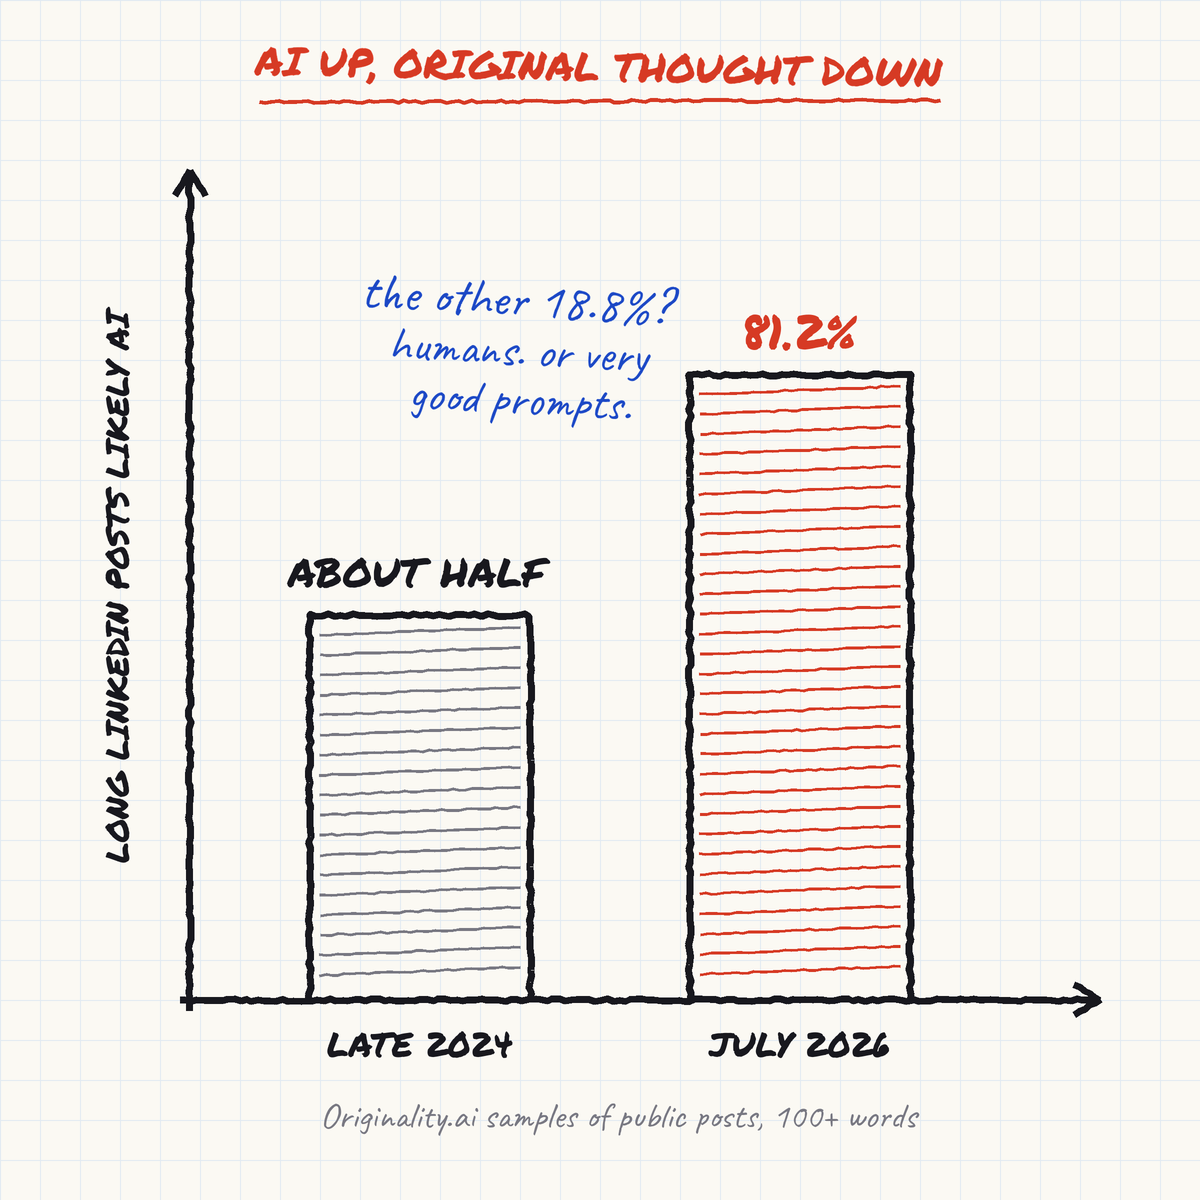
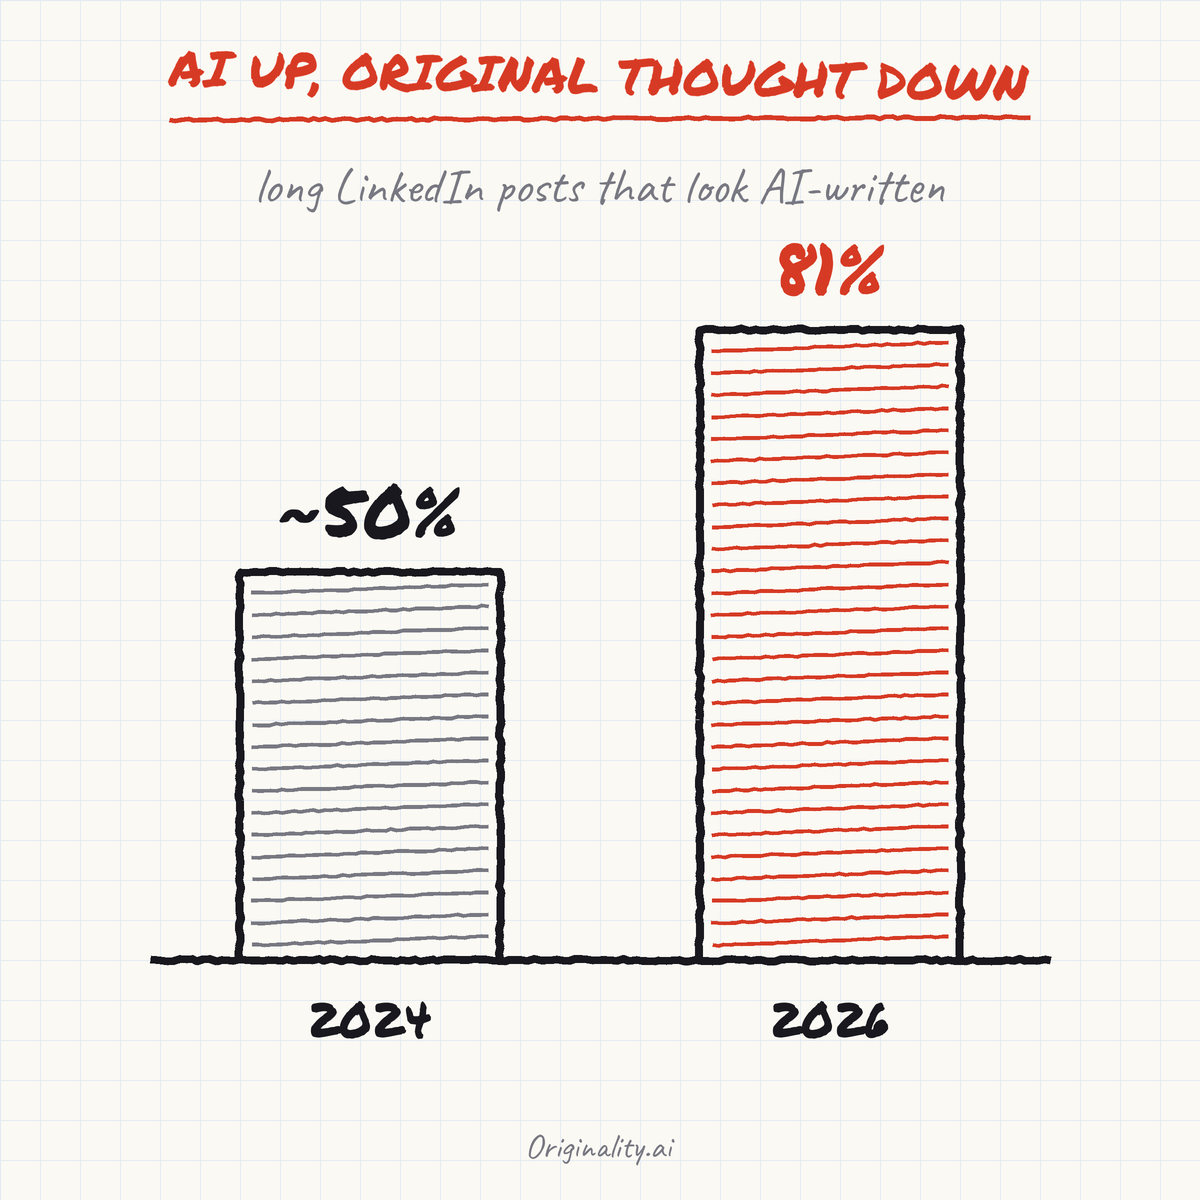
AI up, ___ down: simpler charts, one contrast each
Claude-Session: https://claude.ai/code/session_015eiBRGpC2hMXjiGLbSaNCy

diff --git a/tools/ai_series.py b/tools/ai_series.py
@@ -1,4 +1,5 @@
-"""Charts for the 'AI up, ___ down' series. Usage: python3 tools/ai_series.py [name ...]"""
+"""'AI up, ___ down' series charts, simple versions: one contrast, one punchline each.
+Usage: python3 tools/ai_series.py [name ...]"""
 import math, os, random, sys
 sys.path.insert(0, os.path.dirname(os.path.abspath(__file__)))
 from sketch import Sketch, INK, BLUE, RED
@@ -12,223 +13,181 @@ def save(s, name):
     s.save(os.path.join(OUT, name + ".png"))
 
 
-def stamp(s, text):
-    s.text((600, 70), text, "mark", 40, RED, -1)
-    s.line([(260, 102), (940, 100)], RED, 4, 1.2)
+def title(s, text):
+    s.text((600, 80), text, "mark", 50, RED, -1)
+    s.line([(170, 120), (1030, 117)], RED, 5, 1.2)
 
 
-def bars(s, xs, vals, vmax, labels, base=1000, top=220, w=150, fills=None, vlabels=None, lsize=44):
-    for i, (x, v) in enumerate(zip(xs, vals)):
-        h = (base - top) * v / vmax
-        y = base - h
-        s.line([(x - w / 2, base), (x - w / 2, y), (x + w / 2, y), (x + w / 2, base)], w=7, amp=1.2)
-        fill = (fills or [GREY] * len(xs))[i]
-        for yy in range(int(y) + 20, base - 6, 20):
-            s.line([(x - w / 2 + 10, yy), (x + w / 2 - 10, yy - 8)], fill, 3, 0.8)
-        s.text((x, base + 45), labels[i], "mark", 32)
-        if vlabels:
-            s.text((x, y - 38), vlabels[i], "mark", lsize, fill if fill != GREY else INK)
+def source(s, text):
+    s.text((600, 1150), text, size=34, fill=GREY)
+
+
+def bar(s, x, top, w=260, base=960, fill=GREY):
+    s.line([(x - w / 2, base), (x - w / 2, top), (x + w / 2, top), (x + w / 2, base)], w=8, amp=1.2)
+    for yy in range(int(top) + 22, base - 6, 22):
+        s.line([(x - w / 2 + 12, yy), (x + w / 2 - 12, yy - 9)], fill, 4, 0.8)
+
+
+def baseline(s, base=960):
+    s.line([(150, base), (1050, base)], w=8)
+
+
+def two_bars(s, left, right, base=960, tall=300):
+    """left/right = (label, value_text, height_fraction, colour)."""
+    baseline(s, base)
+    for x, (lab, val, frac, col) in [(370, left), (830, right)]:
+        top = base - (base - tall) * frac
+        bar(s, x, top, base=base, fill=col)
+        s.text((x, top - 60), val, "mark", 72, col if col != GREY else INK)
+        s.text((x, base + 60), lab, "mark", 48)
+
+
+def arrow_big(s, x, y0, y1, col, w=16):
+    s.line([(x, y0), (x, y1)], col, w, 1.0)
+    d = 1 if y1 > y0 else -1
+    s.line([(x - 60, y1 - d * 60), (x, y1), (x + 60, y1 - d * 60)], col, w, 1.0)
 
 
 def stack_overflow():
     s = Sketch(seed=1)
-    stamp(s, "AI UP, STACK OVERFLOW DOWN")
-    s.axes("NEW QUESTIONS PER YEAR", "", top=170, ysize=40)
-    bars(s, [330, 550, 770, 990], [1336, 789, 399, 109], 1400, ["2022", "2023", "2024", "2025"],
-         top=230, vlabels=["1.34M", "789K", "399K", "109K"])
-    s.text((690, 300), "ChatGPT launches", size=48, fill=BLUE, angle=-3)
-    s.text((690, 350), "Nov 30, 2022", size=48, fill=BLUE, angle=-3)
-    s.arrow([(540, 320), (470, 300), (418, 290)])
-    s.text((900, 500), "all of 2025 =", "mark", 34, RED, -3)
-    s.text((900, 550), "less than 2 months", size=46, fill=RED, angle=-3)
-    s.text((900, 595), "of 2016", size=46, fill=RED, angle=-3)
-    s.arrow([(1010, 625), (1030, 760), (1010, 880)], RED)
+    title(s, "AI UP, STACK OVERFLOW DOWN")
+    s.text((600, 190), "new questions asked in a year", size=52, fill=GREY)
+    two_bars(s, ("2022", "1.34M", 1.0, GREY), ("2025", "109K", 0.08, RED), tall=350)
+    s.text((830, 620), "-92%", "mark", 110, RED, -5)
+    source(s, "Stack Exchange Data Explorer")
     save(s, "01-stack-overflow")
 
 
 def google_ctr():
     s = Sketch(seed=2)
-    stamp(s, "AI UP, GOOGLE CLICKS DOWN")
-    s.axes("POSITION #1 CLICK-THROUGH RATE", "", top=170, ysize=34)
-    def y(v): return 1000 - v / 8.5 * 780
-    x0, x1 = 340, 900
-    s.line([(x0, y(7.6)), (x1, y(3.9))], INK, 8, 1.0)
-    s.line([(x0, y(7.3)), (x1, y(1.6))], RED, 9, 1.0)
-    for x, v in [(x0, 7.6), (x1, 3.9)]:
-        s.dot(x, y(v), 13)
-    for x, v in [(x0, 7.3), (x1, 1.6)]:
-        s.dot(x, y(v), 13, RED)
-    s.text((x0, 1045), "DEC 2023", "mark", 34); s.text((x1, 1045), "DEC 2025", "mark", 34)
-    s.text((x0 - 10, y(7.6) - 55), "7.6% / 7.3%", "mark", 38)
-    s.text((x1 + 95, y(3.9) - 10), "3.9%", "mark", 40)
-    s.text((x1 + 95, y(1.6) + 5), "1.6%", "mark", 44, RED)
-    s.text((720, 360), "keywords with no AI Overview", size=42, fill=INK, angle=0)
-    s.text((520, 760), "keywords WITH an AI Overview", size=44, fill=RED, angle=0)
-    s.text((690, 1110), "Ahrefs: 58% lower clicks with an AI Overview", size=40, fill=BLUE)
+    title(s, "AI UP, GOOGLE CLICKS DOWN")
+    s.text((600, 190), "clicks on the #1 result", size=52, fill=GREY)
+    s.text((600, 245), "when an AI Overview shows up", size=52, fill=GREY)
+    two_bars(s, ("2023", "7.3%", 1.0, GREY), ("2025", "1.6%", 0.22, RED), tall=400)
+    source(s, "Ahrefs, 150,000 keywords")
     save(s, "02-google-ctr")
 
 
 def glue():
     s = Sketch(seed=3)
-    stamp(s, "AI UP, COMMON SENSE DOWN")
-    x0, y0, x1, y1 = 230, 190, 970, 1060
+    title(s, "AI UP, COMMON SENSE DOWN")
+    x0, y0, x1, y1 = 220, 190, 980, 1060
     s.line([(x0, y0), (x1, y0 + 6), (x1 - 4, y1), (x0 + 4, y1 - 4), (x0, y0)], INK, 7, 1.4)
-    s.text((600, 270), "PIZZA", "mark", 70)
-    s.text((600, 345), "(according to AI, May 2024)", size=44, fill=GREY)
-    items = ["dough", "tomato sauce", "mozzarella", "non-toxic glue", "(so the cheese sticks)"]
-    ys = [460, 560, 660, 760, 818]
-    for i, (t, yy) in enumerate(zip(items, ys)):
-        if i < 4:
-            s.line([(300, yy), (318, yy + 18), (350, yy - 22)], BLUE if i < 3 else RED, 6, 0.8)
-        s.text((560 if i < 4 else 600, yy), t, size=60 if i < 4 else 42, fill=RED if i >= 3 else INK)
-    s.circle(560, 790, 230, 78)
-    s.text((600, 920), "side: one small rock a day", size=46, fill=INK)
-    s.text((600, 990), "sources: a forum joke + satire", size=40, fill=BLUE)
-    s.text((600, 1130), "both confirmed real by Google", size=40, fill=GREY)
+    s.text((600, 290), "PIZZA", "mark", 90)
+    s.text((600, 375), "(recipe by Google's AI, 2024)", size=46, fill=GREY)
+    for t, yy in [("dough", 500), ("tomato sauce", 610), ("cheese", 720)]:
+        s.line([(310, yy), (330, yy + 20), (365, yy - 24)], BLUE, 7, 0.8)
+        s.text((600, yy), t, size=70)
+    s.line([(310, 860), (330, 880), (365, 836)], RED, 7, 0.8)
+    s.text((600, 860), "glue", "mark", 96, RED)
+    s.circle(600, 860, 170, 85)
+    s.text((600, 975), "(so the cheese sticks)", size=50, fill=RED)
+    source(s, "confirmed real by Google, May 2024")
     save(s, "03-glue-on-pizza")
 
 
 def reddit():
     s = Sketch(seed=4)
-    stamp(s, "AI UP, REDDIT VISITS DOWN")
-    s.axes("REDDIT VISITS", "2023                                   2026", top=170, ysize=44)
-    pts, x = [], 215
-    while x <= 1080:
-        if x < 520:   yv = 820 - 380 * ((x - 215) / 305) ** 1.2
-        elif x < 760: yv = 440 + random.uniform(-25, 25)
-        else:         yv = 440 + 200 * ((x - 760) / 320) ** 1.1
-        pts.append((x, yv + random.uniform(-6, 6))); x += 16
-    s.line(pts, w=10, amp=1.0)
-    s.text((420, 300), "ACT 1:", "mark", 36, BLUE)
-    s.text((420, 350), "Google loves Reddit", size=50, fill=BLUE)
-    s.text((420, 405), "+39% (May 23 to May 24)", size=40, fill=BLUE)
-    s.text((900, 760), "ACT 2:", "mark", 36, RED)
-    s.text((900, 810), "Google summarizes", size=48, fill=RED)
-    s.text((900, 860), "Reddit instead", size=48, fill=RED)
-    s.text((900, 915), "-13% (Oct 25 to Oct 26)", size=40, fill=RED)
-    s.text((640, 1140), "(shape not to scale. percentages: Similarweb)", size=36, fill=GREY)
+    title(s, "AI UP, REDDIT VISITS DOWN")
+    arrow_big(s, 370, 820, 360, BLUE)
+    s.text((370, 290), "+39%", "mark", 100, BLUE)
+    s.text((370, 900), "Google sends", size=56, fill=BLUE)
+    s.text((370, 960), "you to Reddit", size=56, fill=BLUE)
+    s.text((370, 1030), "2023-24", "mark", 40, GREY)
+    arrow_big(s, 830, 360, 820, RED)
+    s.text((830, 290), "-13%", "mark", 100, RED)
+    s.text((830, 900), "Google answers", size=56, fill=RED)
+    s.text((830, 960), "for Reddit", size=56, fill=RED)
+    s.text((830, 1030), "2025-26", "mark", 40, GREY)
+    source(s, "Similarweb visit estimates")
     save(s, "04-reddit")
 
 
 def please():
     s = Sketch(seed=5)
-    stamp(s, "AI UP, MANNERS... EXPENSIVE")
-    s.axes("COST", "", top=170, ysize=48)
-    base = 1000
-    x, w = 420, 200
-    s.line([(x - w / 2, base), (x - w / 2, 760), (x + w / 2, 760), (x + w / 2, base)], w=7)
-    for yy in range(780, base - 6, 20):
-        s.line([(x - w / 2 + 10, yy), (x + w / 2 - 10, yy - 8)], BLUE, 3, 0.8)
-    s.text((x, 700), "tens of millions", size=50, fill=BLUE)
-    s.text((x, 1050), "saying please", size=42)
-    s.text((x, 1095), "and thank you", size=42)
-    x2 = 800
-    s.line([(x2 - w / 2, base), (x2 - w / 2, 120)], w=7, amp=1.2)
-    s.line([(x2 + w / 2, base), (x2 + w / 2, 120)], w=7, amp=1.2)
-    for yy in range(140, base - 6, 20):
-        s.line([(x2 - w / 2 + 10, yy), (x2 + w / 2 - 10, yy - 8)], RED, 3, 0.8)
-    s.text((x2, 1050), "being rude when", size=42)
-    s.text((x2, 1095), "the robots take over", size=42)
-    s.text((1010, 420), "???", "mark", 64, RED, -8)
-    s.text((430, 520), "per Sam Altman:", size=40, fill=GREY)
-    s.text((430, 565), "“well spent... you never know”", size=40, fill=GREY)
+    title(s, "AI UP, MANNERS... EXPENSIVE")
+    base = 960
+    baseline(s, base)
+    bar(s, 370, 720, base=base, fill=BLUE)
+    s.text((370, 640), "$10M+", "mark", 72, BLUE)
+    s.text((370, 1020), "saying please", size=52)
+    s.text((370, 1075), "to ChatGPT", size=52)
+    s.line([(700, base), (700, 150)], w=8, amp=1.2)
+    s.line([(960, base), (960, 150)], w=8, amp=1.2)
+    for yy in range(172, base - 6, 22):
+        s.line([(712, yy), (948, yy - 9)], RED, 4, 0.8)
+    s.text((830, 1020), "not saying please", size=52)
+    s.text((830, 1075), "when AI takes over", size=52)
+    s.text((1080, 520), "?", "mark", 120, RED, -8)
+    source(s, "Sam Altman: “tens of millions of dollars well spent”")
     save(s, "05-please-thank-you")
 
 
 def certainly():
     s = Sketch(seed=6)
-    stamp(s, "AI UP, PROOFREADING DOWN")
-    s.line([(150, 150), (1050, 155), (1048, 330), (152, 326), (150, 150)], RED, 5, 1.2)
-    s.text((600, 205), "“Certainly, here is a possible", size=56)
-    s.text((600, 270), "introduction for your topic:”", size=56)
-    s.text((600, 360), "the opening line of a published lithium battery paper, 2024", size=34, fill=GREY)
-    bars(s, [300, 520, 740, 960], [137, 117, 83, 59], 150, ["meticulously", "intricate", "commendable", "meticulous"],
-         top=470, w=150, vlabels=["+137%", "+117%", "+83%", "+59%"], lsize=42,
-         fills=[RED, GREY, GREY, GREY])
-    s.text((600, 1120), "rise in 2023 papers (Andrew Gray, UCL)", size=40, fill=BLUE)
+    title(s, "AI UP, PROOFREADING DOWN")
+    s.text((600, 230), "The first line of a published", size=56, fill=GREY)
+    s.text((600, 290), "science paper, 2024:", size=56, fill=GREY)
+    s.line([(130, 400), (1070, 405), (1068, 820), (132, 815), (130, 400)], INK, 6, 1.2)
+    s.text((600, 500), "“Certainly, here is", size=84)
+    s.text((600, 600), "a possible introduction", size=84)
+    s.text((600, 700), "for your topic:”", size=84)
+    s.circle(500, 495, 180, 62)
+    s.text((600, 940), "someone forgot to delete", "mark", 52, RED, -2)
+    s.text((600, 1005), "the ChatGPT part", "mark", 52, RED, -2)
     save(s, "06-certainly")
 
 
 def chegg():
     s = Sketch(seed=7)
-    stamp(s, "AI UP, HOMEWORK HELP DOWN")
-    s.axes("CHEGG SHARE PRICE", "", top=170, ysize=44)
-    def y(p): return 1000 - p / 21 * 780
-    pts, x = [], 215
-    while x < 620:
-        pts.append((x, y(18.2 + random.uniform(-0.4, 0.5)))); x += 18
-    pts += [(640, y(18.71)), (680, y(14)), (700, y(10.5)), (720, y(9.2))]
-    x = 740
-    while x <= 1060:
-        pts.append((x, y(9 + random.uniform(-0.25, 0.25)))); x += 18
-    s.line(pts, w=10, amp=1.0)
-    s.text((420, 1045), "MAY 1, 2023", "mark", 32); s.text((880, 1045), "MAY 2, 2023", "mark", 32)
-    s.text((520, y(18.71) - 60), "$18.71", "mark", 44)
-    s.text((900, y(9) + 70), "about $9", "mark", 44)
-    s.text((900, 430), "-49%", "mark", 90, RED, -4)
-    s.text((900, 520), "in one day", size=54, fill=RED, angle=-4)
-    s.text((420, 820), "“We now believe it’s", size=42, fill=BLUE, angle=-2)
-    s.text((420, 865), "having an impact on our", size=42, fill=BLUE, angle=-2)
-    s.text((420, 910), "new customer growth”", size=42, fill=BLUE, angle=-2)
-    s.text((420, 955), "Chegg CEO, on ChatGPT", size=34, fill=GREY, angle=-2)
+    title(s, "AI UP, HOMEWORK HELP DOWN")
+    s.text((600, 190), "Chegg share price", size=56, fill=GREY)
+    def y(p): return 960 - p / 20 * 620
+    pts, x = [], 170
+    while x < 560:
+        pts.append((x, y(18.4 + random.uniform(-0.3, 0.3)))); x += 18
+    pts += [(580, y(18.71)), (620, y(13)), (650, y(9.5))]
+    x = 670
+    while x <= 1040:
+        pts.append((x, y(9 + random.uniform(-0.2, 0.2)))); x += 18
+    s.line(pts, w=12, amp=1.0)
+    s.text((360, y(18.71) - 70), "$18.71", "mark", 64)
+    s.text((860, y(9) + 80), "$9", "mark", 64)
+    s.text((860, 470), "-49%", "mark", 120, RED, -4)
+    s.text((860, 570), "in ONE day", size=62, fill=RED, angle=-4)
+    s.text((600, 1060), "the day Chegg blamed ChatGPT (May 2023)", size=44, fill=INK)
     save(s, "07-chegg")
 
 
 def em_dash():
     s = Sketch(seed=8)
-    stamp(s, "AI UP, EM DASHES... UP")
-    s.axes("EM DASHES PER 10,000 WORDS", "", top=170, ysize=36)
-    base = 1000
-    for x, h, lab, col in [(420, 330, "2023", GREY), (800, 660, "2026", RED)]:
-        s.line([(x - 100, base), (x - 100, base - h), (x + 100, base - h), (x + 100, base)], w=7)
-        for yy in range(base - h + 20, base - 6, 20):
-            s.line([(x - 90, yy), (x + 90, yy - 8)], col, 3, 0.8)
-        s.text((x, base + 45), lab, "mark", 36)
-    s.text((420, 620), "5.79", "mark", 50)
-    s.text((800, 290), "about 2x", "mark", 50, RED)
-    s.line([(330, 210), (520, 212)], INK, 16, 0.6)
-    s.text((430, 270), "this little guy", size=44)
-    s.text((1000, 600), "the dash", size=48, fill=BLUE, angle=-6)
-    s.text((1000, 650), "was here", size=48, fill=BLUE, angle=-6)
-    s.text((1000, 700), "first.", size=48, fill=BLUE, angle=-6)
-    s.text((620, 1120), "pages published after ChatGPT (Pew Research Center)", size=36, fill=GREY)
+    title(s, "AI UP, EM DASHES UP")
+    s.line([(420, 230), (780, 233)], INK, 26, 0.6)
+    s.text((600, 300), "the em dash, on the web", size=52, fill=GREY)
+    two_bars(s, ("2023", "1x", 0.5, GREY), ("2026", "2x", 1.0, RED), tall=470)
+    source(s, "Pew Research Center")
     save(s, "08-em-dash")
 
 
 def linkedin_slop():
     s = Sketch(seed=9)
-    stamp(s, "AI UP, ORIGINAL THOUGHT DOWN")
-    s.axes("LONG LINKEDIN POSTS LIKELY AI", "", top=170, ysize=32)
-    base = 1000
-    def h(p): return (base - 230) * p / 100
-    for x, p, lab, col, vl in [(420, 50, "LATE 2024", GREY, "about half"), (800, 81.2, "JULY 2026", RED, "81.2%")]:
-        s.line([(x - 110, base), (x - 110, base - h(p)), (x + 110, base - h(p)), (x + 110, base)], w=7)
-        for yy in range(int(base - h(p)) + 20, base - 6, 20):
-            s.line([(x - 100, yy), (x + 100, yy - 8)], col, 3, 0.8)
-        s.text((x, base + 45), lab, "mark", 34)
-        s.text((x, base - h(p) - 42), vl, "mark", 48, RED if col == RED else INK)
-    s.text((520, 300), "the other 18.8%?", size=52, fill=BLUE, angle=-3)
-    s.text((520, 355), "humans. or very", size=48, fill=BLUE, angle=-3)
-    s.text((520, 405), "good prompts.", size=48, fill=BLUE, angle=-3)
-    s.text((620, 1120), "Originality.ai samples of public posts, 100+ words", size=36, fill=GREY)
+    title(s, "AI UP, ORIGINAL THOUGHT DOWN")
+    s.text((600, 190), "long LinkedIn posts that look AI-written", size=50, fill=GREY)
+    two_bars(s, ("2024", "~50%", 0.5 / 0.85, GREY), ("2026", "81%", 0.812 / 0.85, RED))
+    source(s, "Originality.ai")
     save(s, "09-linkedin-slop")
 
 
 def pickleball():
     s = Sketch(seed=10)
-    stamp(s, "AI UP, PICKLEBALL UP (FOR FUN)")
-    s.axes("UP AND TO THE RIGHT", "2020                                   2026", top=170, ysize=40)
-    pk = [(230, 900), (420, 760), (620, 600), (820, 430), (1000, 320)]
-    gp = [(560, 970), (640, 820), (760, 560), (900, 330), (1050, 250)]
-    s.line(pk, BLUE, 9, 1.2)
-    s.line(gp, RED, 9, 1.2)
-    s.text((380, 470), "US pickleball players", size=46, fill=BLUE, angle=-14)
-    s.text((380, 525), "4.2M to 24.3M", size=46, fill=BLUE, angle=-14)
-    s.text((900, 720), "ChatGPT", size=50, fill=RED, angle=-30)
-    s.text((935, 780), "0 to 900M a week", size=42, fill=RED, angle=-30)
-    s.line([(240, 190), (740, 186), (742, 290), (242, 294), (240, 190)], INK, 5, 1.2)
-    s.text((491, 240), "FOR FUN. NOT A FINDING.", "mark", 32, INK, 0)
-    s.text((620, 1120), "correlation: yes. causation: absolutely not.", size=40, fill=GREY)
+    title(s, "AI UP, PICKLEBALL UP")
+    s.line([(180, 960), (1060, 960)], w=8)
+    s.line([(200, 900), (450, 760), (700, 580), (950, 380), (1040, 330)], BLUE, 12, 1.2)
+    s.line([(540, 950), (640, 820), (760, 560), (900, 330), (1040, 250)], RED, 12, 1.2)
+    s.text((330, 650), "pickleball", "mark", 60, BLUE, -18)
+    s.text((990, 620), "ChatGPT", "mark", 60, RED, -40)
+    s.text((600, 1060), "same shape. zero connection.", "mark", 52, INK)
+    s.text((600, 200), "(for fun)", size=56, fill=GREY)
     save(s, "10-pickleball")
 
 
